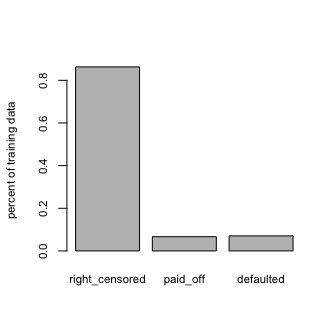
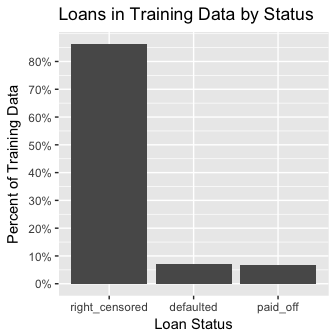
Changed loan percentage plot to ggplot

diff --git a/reports/final_report.md b/reports/final_report.md
@@ -21,8 +21,7 @@ the loss distributions of tranches backed by a portfolio of loans.
 Prior to model building, we explored the data to detect patterns that may 
 provide signal for models of loan default. Because we first aimed to build 
 binary response models of default probability, we excluded "Exempt" loans from 
-our exploratory analysis. Subsequently, we examined the relationship between 
-default rates and the predictor variables, including `Business Type`, 
+our exploratory analysis. When we fit survival models (*see Cox Proportional Hazards Models section*), "Exempt" loans are reintroduced into the population under consideration as right-censored observations. **All patterns observed in the data for this section cannot be assumed when "Exempt" observations are included.** Subsequently, we examined the relationship between default rates and the predictor variables, including `Business Type`, 
 `Loan Amount`, `NAICS Code`, and `Subprogram Type`, among others. 
 
 Further, we collected additional predictor variables such as monthly 
@@ -362,7 +361,7 @@ performance on the test set in terms of AUC and calibration.
 
 
 	
-Survival analysis gives more detailed information about how the default risk of a loan varies over time. With binary classification, we estimated the probability that a given loan *ever* defaults. With a hazard model, we are able to estimate the probability that a loan defaults between any two points of time in its life.
+Survival analysis gives more detailed information about how the default risk of a loan varies over time. With binary classification, we estimated models to predict probability that a given loan *ever* defaults. With a hazard model, we are able to estimate the probability that a loan defaults between any two points of time in its life.
 
 ###Model Choice
 
@@ -386,17 +385,19 @@ $$ = \frac{h_j(t_j)}{\sum_{i = k_0}^{k_q} h_i(t_j)} = \frac{h_0(t_j) exp(\beta^T
 And we can see that the contribution of any observation to the likelihood function will not be dependent on $h_0(t)$. $\square$
 	      
 ###Modifications to the Data
+**It is important to note that from this part of the project moving forward, "Exempt" loans are included.** New 70-30 training and test sets were created which include these previously excluded observations. 
 
-Roughly 95% of loans in the training data set had a term of 20 years. We decided that considering loans with the same term was more appropriate for this analysis (84,949 loans). 
-Within the training data, about 86\% of loans were right censored (term did not expire in window, and did not default), about 7\% of loans were paid off (term expired in window), and about 7% of loans defaulted within the window (figure 1). 
+Additionally, roughly 95% of loans in the training data had term lengths of 20 years. We decided that considering loans with the same term was more appropriate for this analysis (84,949 loans).\footnote{One might imagine how fitting a model to predict default probabilities $t$ years ahead on data where most loans are of a certain term length, might give misleading output when predicting on a loan with a different term length. E.g., two loans of the same age, and identical feature vectors would have the same probability of default $t$ years ahead. But one of the loans might expire in fewer than $t$ years. Thus, the default probability estimated for the shorter term loan would have been over a smaller interval than intended (because a loan cannot default when it has expired).} 
+
+Within the training data, about 86\% of loans were right censored (term did not expire in window, and did not default), about 7\% of loans were paid off (term expired in window), and about 7% of loans defaulted within the window (see figure below). 
 		
-![Loans in training data by status](final_report_files/figure-html/distribution-1.png)
+<img src="final_report_files/figure-html/distribution-1.png" style="display: block; margin: auto;" />
 
-Polynomial terms up to *degree five* were added for all numeric variables. Our intention was to include these features to capture non-linearities in these variables, and conduct feature selection during model fitting (through regularization).
+Polynomial terms up to *degree five* were added for all numeric variables. Our intention was to include these features to capture non-linearities in these variables, and conduct feature selection during model fitting (through the addition of a penalty term).
 
-Further, all numeric variables were centered to 0, and scaled by standard deviation.
+All numeric variables were centered to 0, and scaled by standard deviation, as was the case for the binary models.
 	   
-Missing values were set to 0 and an missing value indicator feature was added for each original variable.	   
+Missing values were set to 0 and a missing value indicator feature was added for each original variable.	   
       
 Including expanded categorical variables, polynomials, and missing value dummies, the data had 201 features.
       
@@ -421,10 +422,29 @@ For the purpose of feature selection, we fit a series of penalized Cox models to
 We used an elastic net penalty-- a penalty term that is a linear combination of the $l_1$ and $l_2$ penalties.
    $$\lambda [ (1-\alpha)||\beta||_2 + \alpha||\beta||_1]$$
    
-We fit models varying $\alpha$ and $\lambda$ in the penalty-- we selected the model with the largest evaluated value of the likelihood function.
+We fit models varying $\alpha$ and $\lambda$ in the above penalty. The best model was determined using a goodness of fit measure defined by the `glmnet` package in R called `dev.ratio`. It is a measure of the difference between the maximized likelihood of the null model and that of the fit model: 
+
+$$\text{dev.ratio} := 2(\hat{L}_\text{fit} - \hat{L}_\text{null})$$
+
+\begin{figure}
+\centering
+\begin{subfigure}{.5\textwidth}
+  \centering
+  \includegraphics[width=350pt,height=620pt]{../studies/heatmap.pdf}
+  \caption{`dev.ratio` values}
+  \label{fig:sub1}
+\end{subfigure}%
+\begin{subfigure}{.5\textwidth}
+  \centering
+  \includegraphics[width=350pt,height=620pt]{../studies/ftrs_heatmap.pdf}
+  \caption{Number of features with non-zero coefficients}
+  \label{fig:sub2}
+\end{subfigure}
+\caption{A figure with two subfigures}
+\label{fig:test}
+\end{figure}
 
 \begin{center}      
-\includegraphics[width=350pt,height=620pt]{../studies/heatmap.pdf}
 \end{center}
 	
 The best model, in terms had a value of $\lambda$ very close to 0, and $\alpha$ very close to 0 (the ridge penalty). Ninety-seven variables of the original 201 had non-zero coefficients.
@@ -564,12 +584,17 @@ for 1-year and 5-year simulations.
 
 ![Expected Tail loss results](../studies/alex_etl_table_png.png)
 
-##Interpretation and Risk Analysis
+##Analysis of Results
 
-- To be discussed at Thursday meeting. 
-- I think we should run this pipeline for portfolios from different time periods
+The following two plots represent the 1 year and 5 year total loss distributions 
+from our boostrap. For each of plot, we also add a visualisation of the VaR and AVaR
+as well as a representation of the actual realised loss from our randomly sampled
+portfolio. We can observe that the realised loss for the 1 year distribution is relatively
+close to the mean (within 0.5 $\sigma$). On the other hand the 5 year realised losses
+are at the very tail of our estimated distribution. This is due to the fact that our model,
+while predicting the probability of default accurately seems to underestimate the loss at default.
 
-![](final_report_files/figure-html/unnamed-chunk-34-1.png)<!-- -->
+![](final_report_files/figure-html/unnamed-chunk-34-1.png)<!-- -->![](final_report_files/figure-html/unnamed-chunk-34-2.png)<!-- -->
 
 #Loss Distributions by Tranche
 
